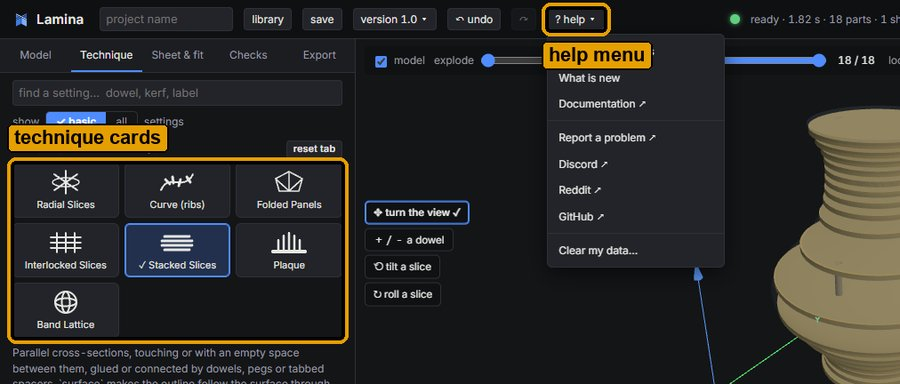
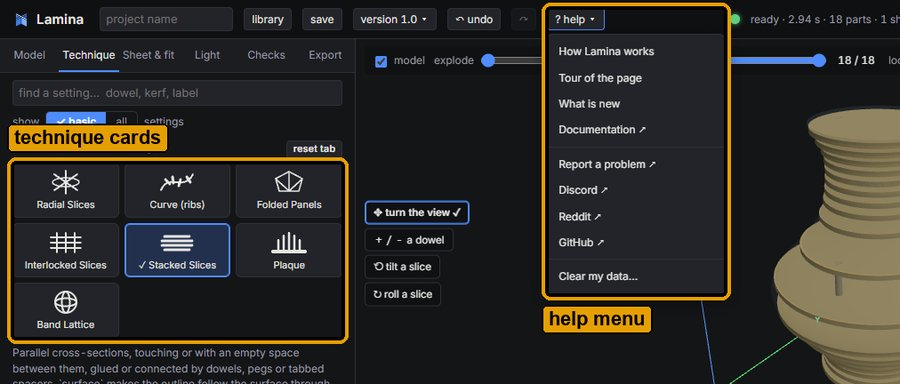
0.4.0-cards.jpg retaken on 22601af: the help menu with Tour of the page
The first-visit tour put Tour of the page into the help menu, so the picture is taken again on the release tip.
The ring is now round the help button and the open menu together: its label goes under the menu, not over its
first item (How Lamina works). The alt text names the tour.

notes_check 0.4.0 OK; ruff clean. 0.4.0-export.jpg already shows the new Export tab (export-tab's retake).

Changed region(s): [[0.5911, 0.0, 0.84, 0.875], [0.0, 0.125, 0.3733, 0.1875], [0.8711, 0.0312, 0.9022, 0.0625]]

diff --git a/scripts/media/news.py b/scripts/media/news.py
@@ -318,7 +318,9 @@ def n040_cards(app):
     menu = "details.menu:has(#helpbtn) > summary"
     app.p.click(menu)
     app.p.wait_for_timeout(300)
-    app.shot("0.4.0-cards", (0, 0, 1000, 420), [("#modes", "technique cards"), (menu, "help menu")])
+    s, p = app.box(menu), app.box("details.menu:has(#helpbtn) .pop")   # one ring round the button and the open menu:
+    whole = (min(s[0], p[0]), s[1], max(s[2], p[2]), p[3])             # its label goes under it, off the menu's items
+    app.shot("0.4.0-cards", (0, 0, 1000, 420), [("#modes", "technique cards"), (whole, "help menu")])
     app.p.click(menu)
 
 

diff --git a/CHANGELOG.md b/CHANGELOG.md
@@ -90,7 +90,7 @@ Printed panels now join without glue.
 - **A tidy top bar, a tour.** The links, *what's new* and *clear my data* are in the *help* menu, with *Tour of
   the page*. Technique buttons are cards with a drawing. What's new can point at each new control.
 
-  ![The help menu open, and the technique cards](web/static/news/0.4.0-cards.jpg)
+  ![The help menu open, with Tour of the page, and the technique cards](web/static/news/0.4.0-cards.jpg)
 
 - **Clear warnings, not only colour.** A warning starts with ⚠ WARNING, an error with ✖ ERROR. A dowel with no room
   is a counted warning. Parts with errors carry a net, and crossing slices are striped.
